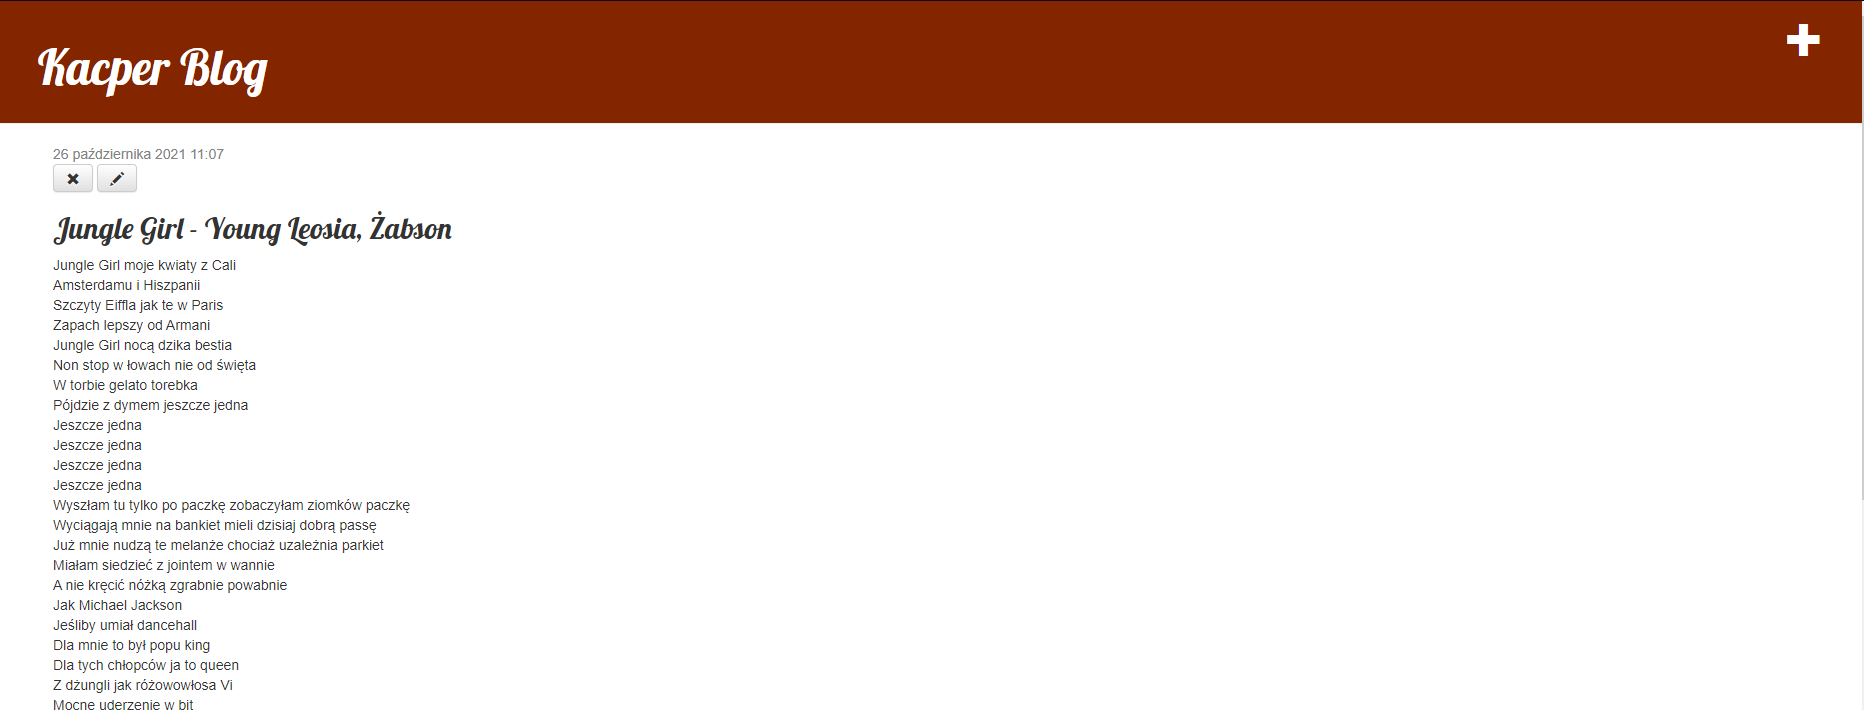
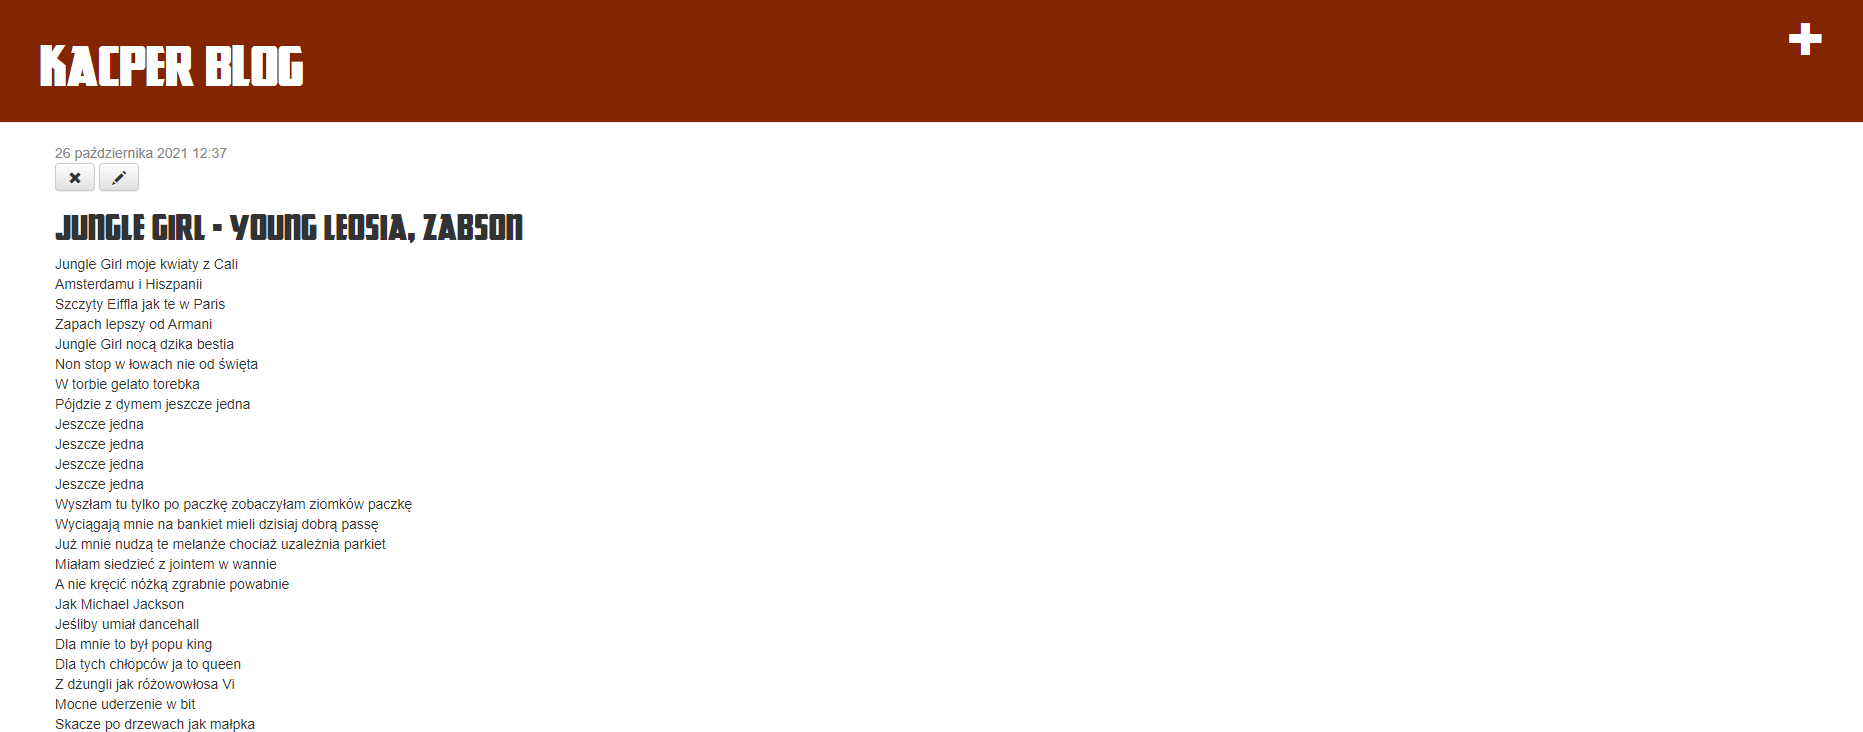
poprawka w screenach oraz README.md

Changed region(s): [[0.0, 0.0, 1.0, 1.0], [0.0, 0.062, 0.1868, 0.1239]]

diff --git a/README.md b/README.md
@@ -9,7 +9,7 @@ Link do mojego bloga na [pythonanywhere.com](https://www.pythonanywhere.com) - [
 #### Strona startowa
 
 Po wejściu na stronę, można zauważyć tytuł strony, oraz dodane posty. 
-W prawym górnym rogu widnieje plus, który przenosi nas do dodania nowego postu
+W prawym górnym rogu widnieje plus, który przenosi nas do dodania nowego postu.
 
 ![](assets/strona_start.png)
 
